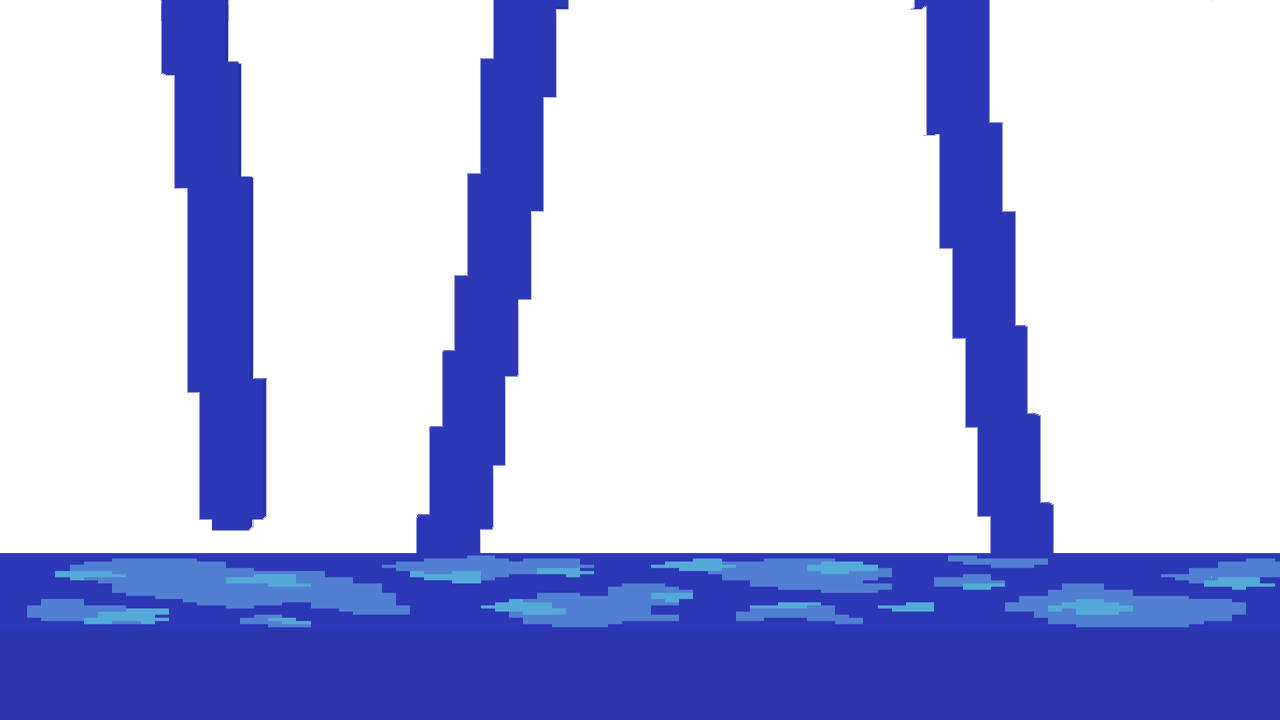
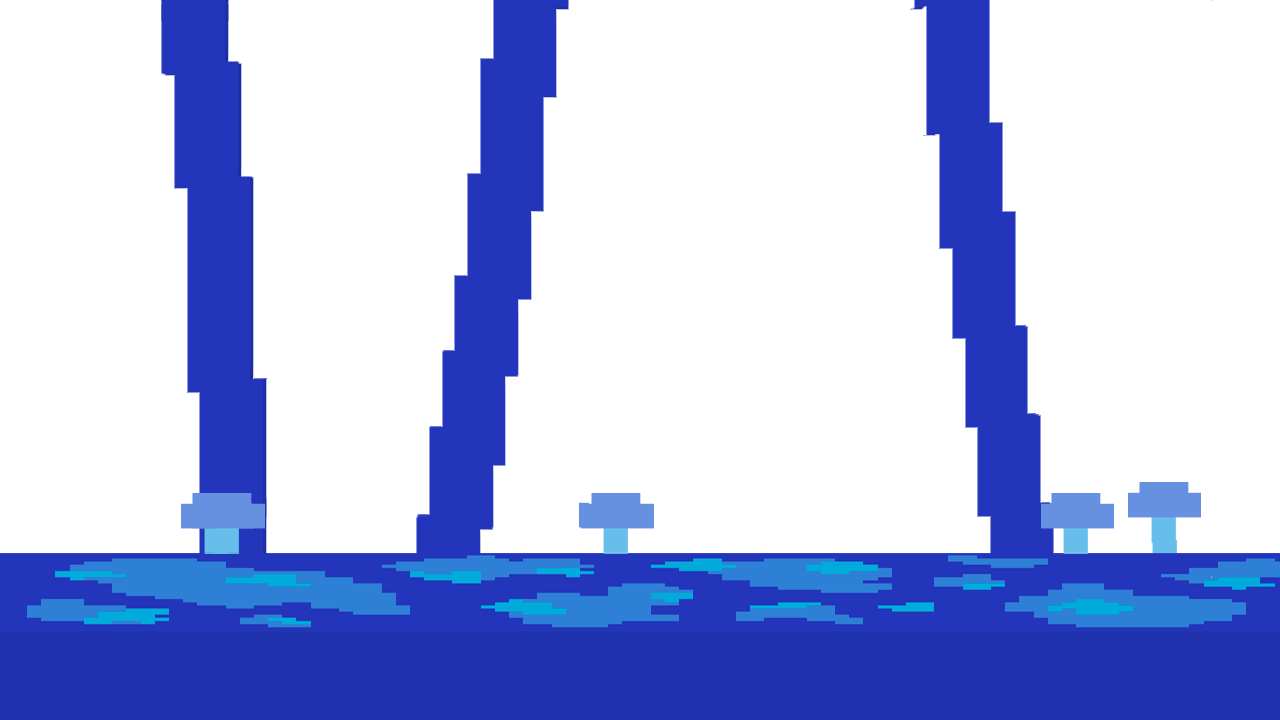
Obstacle race background improved and lowered dragonflies

Changed region(s): [[0.0, 0.6722, 1.0, 0.8861]]

diff --git a/public/ObstacleRace/src/layers/GameLayer.js b/public/ObstacleRace/src/layers/GameLayer.js
@@ -12,7 +12,7 @@ class GameLayer extends Layer {
     this.obstacles = [];
     this.obstacleIndicators = [];
     this.floorY = originalCanvasHeight - 200;
-    this.airY = originalCanvasHeight - 300;
+    this.airY = originalCanvasHeight - 290;
 
     this.player = new Player(150, originalCanvasHeight - 182);
     this.space.addDinamicCorp(this.player);
